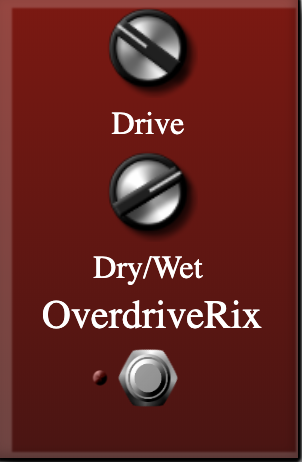
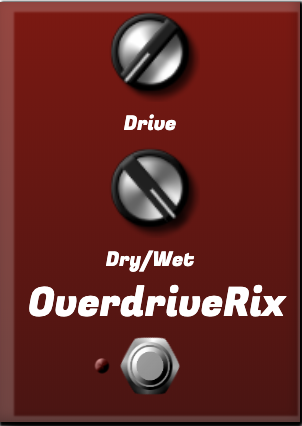
changing style overdriverix

Changed region(s): [[0.0, 0.0, 1.0, 1.0], [0.298, 0.7934, 0.3576, 0.885], [0.0, 0.9765, 0.0298, 1.0]]

diff --git a/jordan-SINTES/OverdriveRix/main.html b/jordan-SINTES/OverdriveRix/main.html
@@ -1,3 +1,5 @@
+<link rel="stylesheet"
+          href="https://fonts.googleapis.com/css?family=Fugaz+One">
 <script
     src="https://wasabi.i3s.unice.fr/WebAudioPluginBank/bower_components/webaudio-controls2/webcomponents-lite.js"></script>
 <script>
@@ -10,16 +12,17 @@
 <template>
     <style>
         :host {
-            font: "DarkMoon", 'Arial Black';
             display: block;
             box-shadow: 4px 5px 6px rgba(0, 0, 0, 0.7), inset -2px -2px 5px 0px rgba(0, 0, 0, 0.2), inset 3px 1px 1px 4px rgba(255, 255, 255, 0.2), 1px 0px 1px 0px rgba(0, 0, 0, 0.9), 0 2px 1px 0 rgba(0, 0, 0, 0.9), 1px 1px 1px 0px rgba(0, 0, 0, 0.9);
             background: linear-gradient(rgb(134, 7, 7), rgb(80, 16, 16));
             position: relative;
             width: 150px;
-            height: 230px;
+            height: 210px;
             user-select: none;
             cursor: move;
             z-index: 9;
+            font-family: "Fugaz One";
+            font-size:10px
             /* bring your own prefixes */
         }
 
@@ -59,11 +62,10 @@
 
 
         .pedalLabel {
-            margin-left: 20px;
+            margin-left: 14px;
             top: 225px;
             font-size: 20px;
             /*{font}*/
-            font-family: "DarkMoon";
             text-align: center;
             line-height: 30px;
             /*{pedalfontsize}*/
@@ -81,7 +83,6 @@
             max-width: 64px;
             overflow: hidden;
             text-align: center;
-            font-family: Sansita;
             /*{font}*/
             color: #6B0000;
             /*{fontcolor}*/
@@ -180,7 +181,7 @@
                 },
                 dataHeight: {
                     type: Number,
-                    value: 230
+                    value: 210
                 }
             };
             return this.boundingRect;
